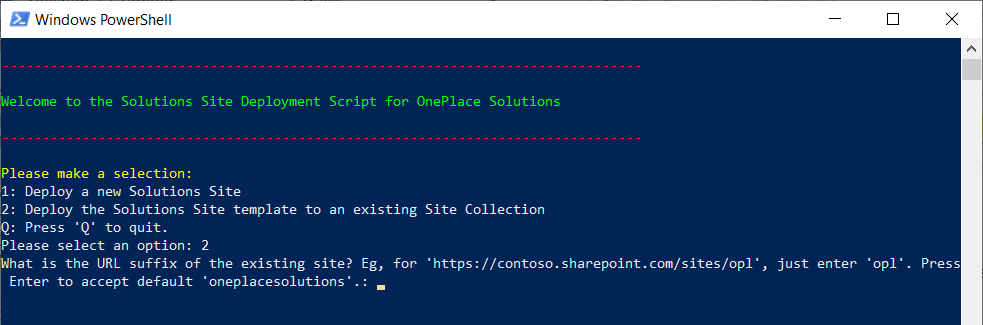
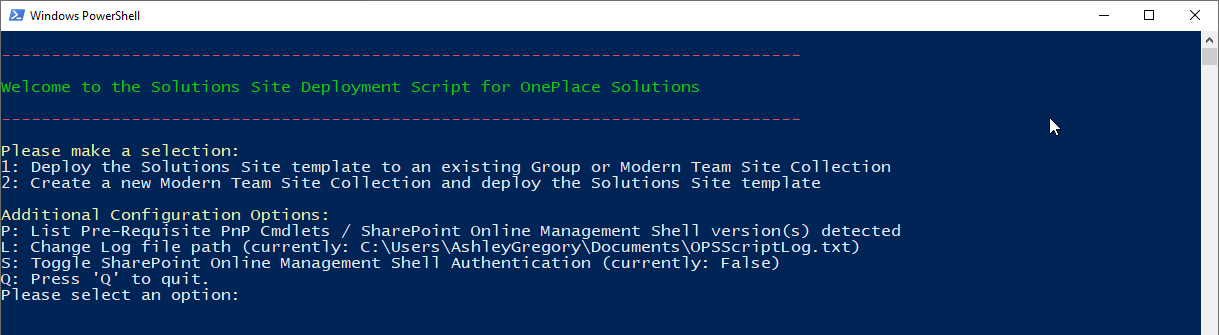
Updating images

diff --git a/README.md b/README.md
@@ -36,19 +36,21 @@ You will need to install the the cmdlets on the machine you are running the scri
 ## SharePoint Online
 
 
-If you are deploying the Solutions Site to your own Microsoft 365 Tenant, please create a Team/Group Site from your SharePoint Home and select Option 1 in the script when prompted.
+If you are deploying the Solutions Site to your own Microsoft 365 Tenant, please create a Team/Group Site from your SharePoint Home and select **Option 1** in the script when prompted.
 
 If any of the following applies to you:
- - You are logged in to your own Microsoft 365 Tenant on your machine and are deploying this Solutions Site in a different Tenant
+ - You are logged in to your own Microsoft 365 Tenant on your machine and are deploying this Solutions Site in a different Tenant (multi-tenant scenario)
  - You want the script to create a Site Collection for you (requires SharePoint Administrator privileges)
- You must install the SharePoint Online Management Shell pre-requisite, and select Option 2 in the script when prompted. The site will be created at 'https://&lt;yourTenant&gt;&#46;sharepoint&#46;com/sites/<b>oneplacesolutions</b>'.
 
-Note: * The script will not work with Option 1 if the site named already exists.
+ You must install the SharePoint Online Management Shell pre-requisite, and select **Option 2** in the script when prompted. The site will be created at 'https://&lt;yourTenant&gt;&#46;sharepoint&#46;com/sites/<b>oneplacesolutions</b>'.
+ For multi-tenant scenarios where you want to deploy the template to an existing Site Collection (**Option 1**), please toggle SharePoint Online Management Shell Authentication to 'True' in the script by selecting 'S' in the menu before selecting another option.
+
+Note: * Option 1 will fail if the site named (by default '*/oneplacesolutions') already exists.
 
 
-\* All actions performed with the script will be logged to 'OPSScriptLog.txt' in your Documents folder (or under the Administrator account's Documents if running PowerShell as an Administrator). When requesting assistance with this script please send this log file as an attachment.
+\* All actions performed with the script will be logged to 'OPSScriptLog.txt' in your Documents folder (or under the Administrator account's Documents if running PowerShell as an Administrator). When requesting assistance with this script please send this log file as an attachment. This directory can be changed in-script.
 
-\* The log file will be uploaded to the Documents folder in the Solutions Site at the end of deployment for your record keeping. If this script does not work for you, please continue with using the SharePoint On-Premise 2013/2016/2019 instructions further down the page.
+\* The log file will be uploaded to the Documents folder in the Solutions Site at the end of deployment for your record keeping.
 
 
 1.  Start PowerShell on your machine:
@@ -64,27 +66,29 @@ Note: * The script will not work with Option 1 if the site named already exists.
 
     ![](./README-Images/invokestringSPO.png)
 
-3.  The PowerShell script will execute and begin logging actions to the noted log file path. You will be prompted to choose whether to deploy a new Solutions Site, or deploy the template to an existing Site Collection. 
+3.  The PowerShell script will execute and begin logging actions to the noted log file path. You will be prompted to choose whether to deploy the template to an existing Site Collection, or create a new Site Collection and deploy the template afterwards. 
 
-    If the Solutions Site already exists and you wish to update it, or a problem was encountered during deployment, select option 2. You will also be prompted to enter the URL of the existing Solutions Site.
+    If the Solutions Site already exists and you wish to update it, or a problem was encountered during deployment, select **Option 1 **. You will be prompted to enter the URL of the existing Solutions Site.
 
     ![](./README-Images/menu.png)
     
-4.  (Option 1 Only) Please type your SharePoint Tenant name and press enter. For example, if your Root SharePoint Site Collection is 'htt<span>ps://contoso&#46;sharepoint&#46;com', just enter 'contoso':
-
+	If you have selected **Option 1** please skip steps 4-7.
+	
+4.  Option 2 Only) Please enter the SharePoint Root Site Collection URL and press enter. For example, 'htt<span>ps://contoso&#46;sharepoint&#46;com':
+<!--
     ![](./README-Images/entertenantSPO.png)
+-->
+5.  You will be asked to enter your credentials for Microsoft 365 \/ SharePoint Online.
 
-5.  You will be asked to enter your credentials for Microsoft 365 \/ SharePoint. For SharePoint Online this will be your email address.
-
-6.  (Option 1 Only) You will then be asked to enter an email address for the owner of this Site Collection. Enter the same email address you logged in with, as only the Site Owner can deploy the script to the new Site Collection it's current state. You can change the Site Owner after deployment if you wish:
+6.  (Option 2 Only) You will then be asked to enter an email address for the owner of this Site Collection. Enter the same email address you logged in with, as only the Site Owner can deploy the script to the new Site Collection it's current state. You can change the Site Owner after deployment if you wish:
 
     ![](./README-Images/enterownerSPO.png)
 
-7.  (Option 1 Only) SharePoint will start provisioning the Site. Please leave the PowerShell window open while this happens, it will automatically resume the script when the Site is ready to configure. Depending on Microsoft service usage this can take up to 30 minutes, but creation usually occurs in less than 10 minutes.
+7.  (Option 2 Only) SharePoint will start provisioning the Site. Please leave the PowerShell window open while this happens, it will automatically resume the script when the Site is ready to configure. Depending on Microsoft service usage this can take up to 30 minutes, but creation usually occurs in less than 10 minutes.
 
     ![](./README-Images/sitecreationSPO.png)
 
-8.  Once SharePoint has created the Site, the script will start configuring it for use.
+8.  Once the Site Collection URL has been entered (or the Site Collection has been created as part of Option 2) the script will start configuring it for use.
 
     ![](./README-Images/siteconfigurationSPO.png)
 	
